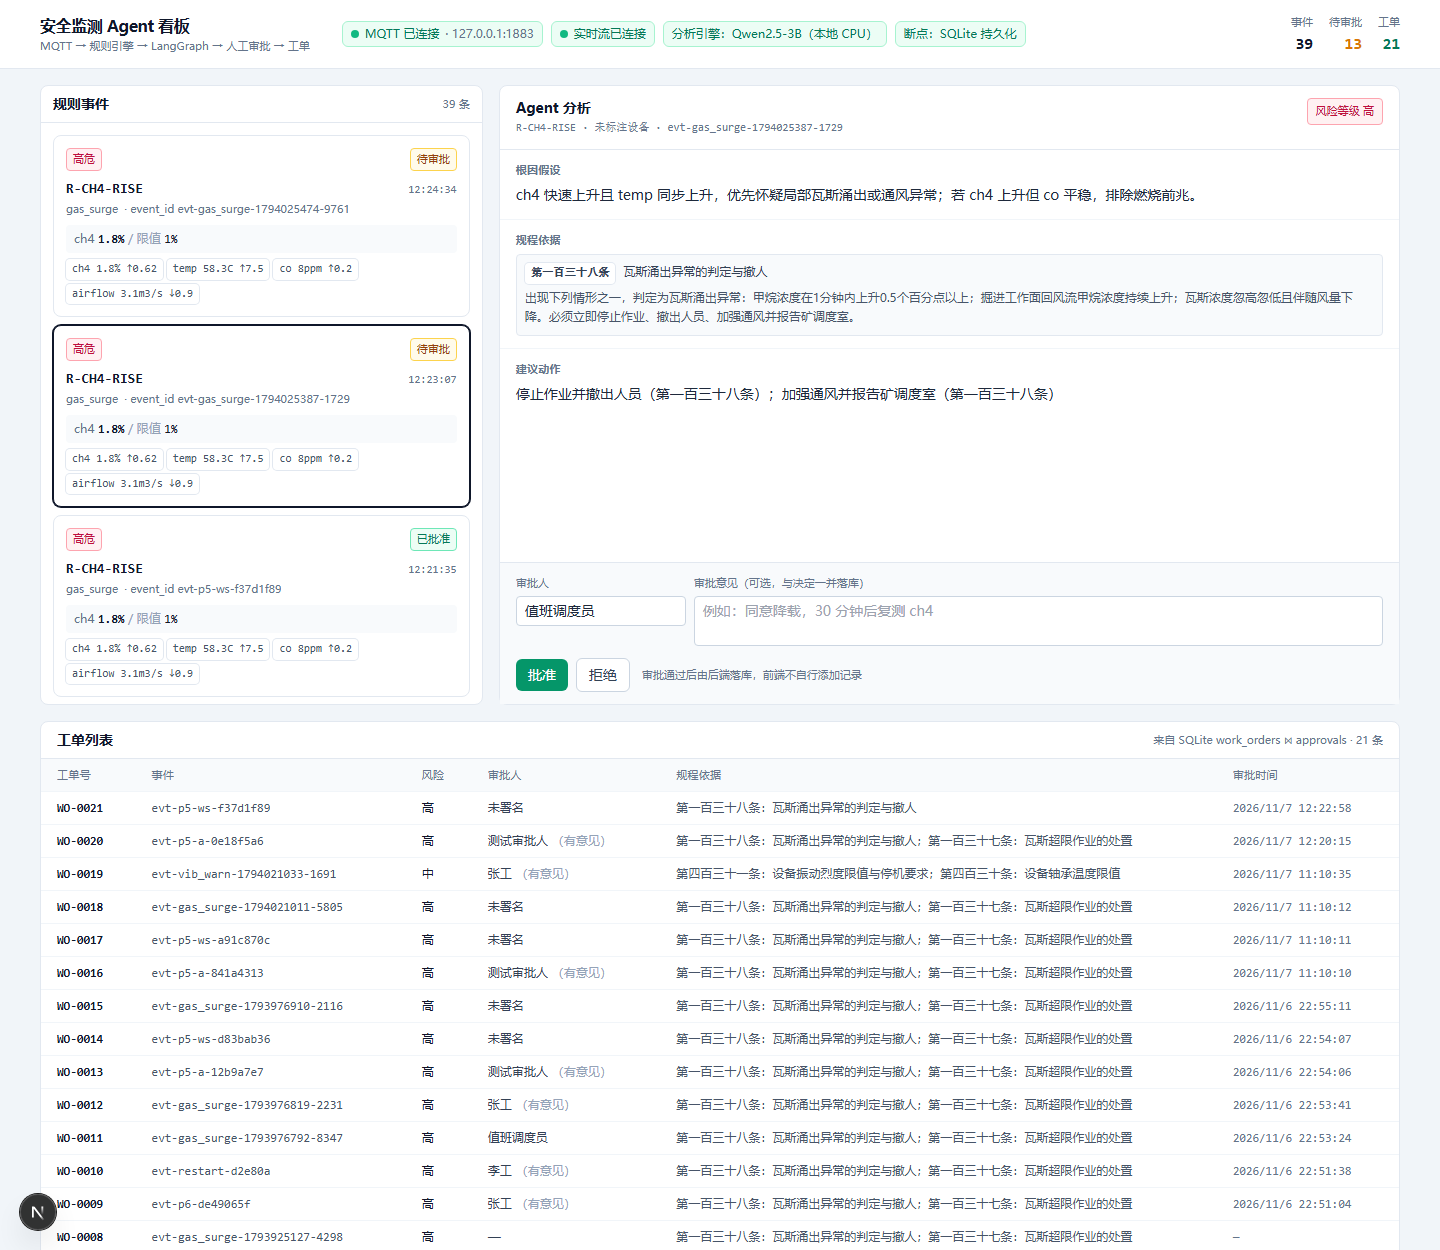
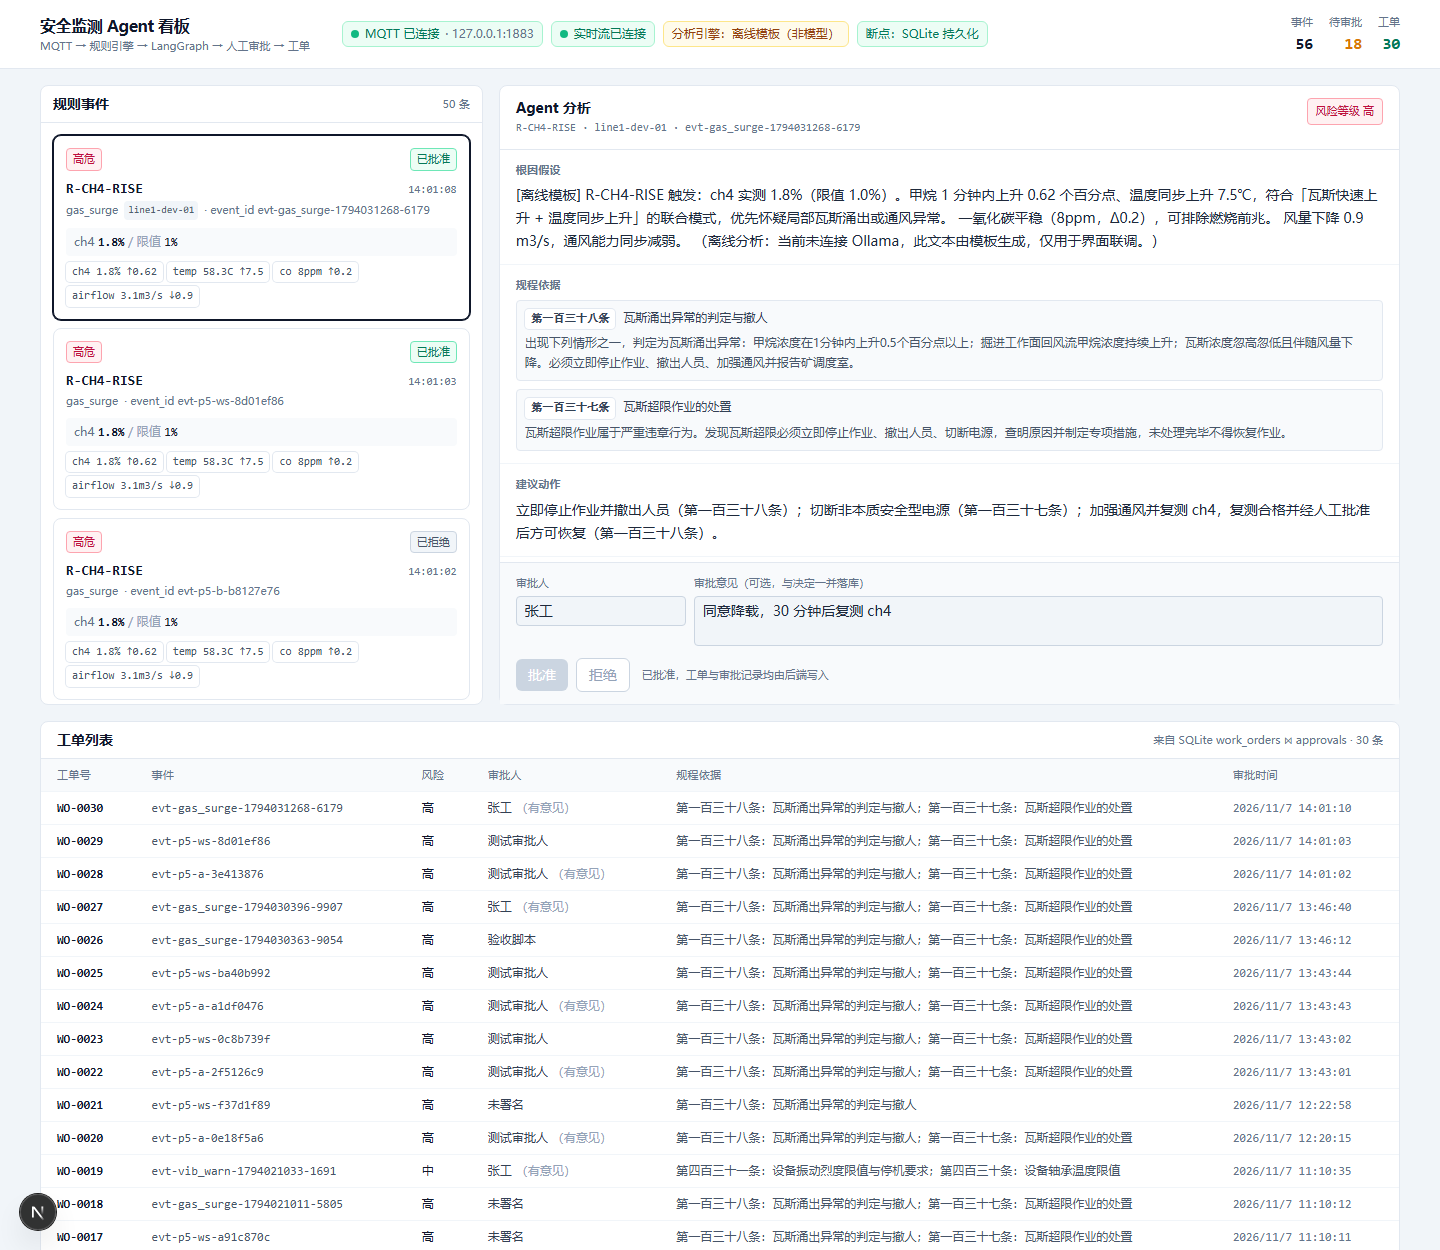
feat: 遥测趋势曲线（分析卡内 30 分钟折线）+ 审批超时默认 600s

diff --git a/web/components/TelemetryChart.tsx b/web/components/TelemetryChart.tsx
@@ -1,0 +1,100 @@
+"use client";
+
+import { useEffect, useState } from "react";
+
+import { fetchTelemetry } from "@/lib/api";
+import type { TelemetryPoint } from "@/lib/types";
+
+const W = 100;
+const H = 34;
+
+export function TelemetryChart({
+  deviceId,
+  sensor,
+  unit,
+}: {
+  deviceId?: string;
+  sensor?: string;
+  unit?: string;
+}) {
+  const [points, setPoints] = useState<TelemetryPoint[]>([]);
+  const [error, setError] = useState<string | null>(null);
+  const [loading, setLoading] = useState(false);
+
+  useEffect(() => {
+    if (!deviceId || !sensor) return;
+    let alive = true;
+    const load = async () => {
+      try {
+        const data = await fetchTelemetry(deviceId, sensor, 30);
+        if (alive) {
+          setPoints(data);
+          setError(null);
+        }
+      } catch (err) {
+        if (alive) setError(err instanceof Error ? err.message : String(err));
+      } finally {
+        if (alive) setLoading(false);
+      }
+    };
+    setLoading(true);
+    void load();
+    const timer = setInterval(load, 15000);
+    return () => {
+      alive = false;
+      clearInterval(timer);
+    };
+  }, [deviceId, sensor]);
+
+  if (!deviceId || !sensor) {
+    return <p className="text-xs text-slate-400">该事件未标注设备/传感器，没有可画的遥测。</p>;
+  }
+  if (error) {
+    return <p className="text-xs text-rose-600">遥测加载失败：{error}</p>;
+  }
+
+  const values = points
+    .map((p) => p.value)
+    .filter((v): v is number => typeof v === "number");
+  if (values.length < 2) {
+    return (
+      <p className="text-xs text-slate-400">
+        {loading ? "加载中…" : "最近 30 分钟没有遥测（规则引擎需运行并落库）"}
+      </p>
+    );
+  }
+
+  const min = Math.min(...values);
+  const max = Math.max(...values);
+  const span = max - min || 1;
+  const step = W / (values.length - 1);
+  const line = values
+    .map((v, i) => `${i === 0 ? "M" : "L"}${(i * step).toFixed(2)},${(H - ((v - min) / span) * H).toFixed(2)}`)
+    .join(" ");
+  const last = values[values.length - 1];
+
+  return (
+    <div>
+      <div className="flex items-baseline justify-between text-[11px] text-slate-500">
+        <span>
+          最近 30 分钟 · {sensor} · {deviceId}
+        </span>
+        <span>{values.length} 点</span>
+      </div>
+      <svg
+        viewBox={`0 0 ${W} ${H}`}
+        preserveAspectRatio="none"
+        className="mt-1 h-14 w-full rounded bg-slate-50 ring-1 ring-slate-200"
+        role="img"
+        aria-label="遥测趋势"
+      >
+        <path d={line} fill="none" stroke="#0f172a" strokeWidth="1" vectorEffect="non-scaling-stroke" />
+      </svg>
+      <div className="mt-1 flex justify-between font-mono text-[11px] text-slate-600">
+        <span>最低 {min.toFixed(2)}{unit ?? ""}</span>
+        <span>当前 {last.toFixed(2)}{unit ?? ""}</span>
+        <span>最高 {max.toFixed(2)}{unit ?? ""}</span>
+      </div>
+    </div>
+  );
+}

diff --git a/web/lib/api.ts b/web/lib/api.ts
@@ -1,6 +1,8 @@
 export const API_BASE =
   process.env.NEXT_PUBLIC_API_BASE?.replace(/\/$/, "") ?? "http://127.0.0.1:8000";
 
+import type { TelemetryPoint } from "./types";
+
 /** 设置 API_TOKEN 时，前端用这个头访问写接口 */
 const TOKEN = process.env.NEXT_PUBLIC_API_TOKEN ?? "";
 
@@ -53,4 +55,22 @@ export async function retryAnalysis(eventId: string): Promise<{ ok: boolean; sta
   });
   if (!res.ok) throw new Error(await readError(res));
   return (await res.json()) as { ok: boolean; status: string };
+}
+
+/** 最近 N 分钟的原始遥测（升序返回，便于直接画折线） */
+export async function fetchTelemetry(
+  deviceId: string,
+  sensor: string,
+  minutes = 30,
+): Promise<TelemetryPoint[]> {
+  const params = new URLSearchParams({
+    device_id: deviceId,
+    sensor,
+    minutes: String(minutes),
+    limit: "600",
+  });
+  const res = await fetch(`${API_BASE}/api/telemetry?${params.toString()}`, { cache: "no-store" });
+  if (!res.ok) throw new Error(await readError(res));
+  const body = (await res.json()) as { points: TelemetryPoint[] };
+  return [...body.points].reverse();
 }

diff --git a/web/components/AnalysisPanel.tsx b/web/components/AnalysisPanel.tsx
@@ -2,6 +2,7 @@
 
 import { useState } from "react";
 
+import { TelemetryChart } from "@/components/TelemetryChart";
 import type { EventRecord, RiskLevel } from "@/lib/types";
 
 const RISK: Record<RiskLevel, { label: string; cls: string }> = {
@@ -101,6 +102,14 @@ export function AnalysisPanel({
 
             <Section title="建议动作">
               <p className="text-sm leading-relaxed text-slate-800">{analysis.recommended_action}</p>
+            </Section>
+
+            <Section title="遥测趋势">
+              <TelemetryChart
+                deviceId={record.event.device_id}
+                sensor={record.event.sensor}
+                unit={record.event.observed?.unit}
+              />
             </Section>
           </>
         )}

diff --git a/web/lib/types.ts b/web/lib/types.ts
@@ -55,6 +55,14 @@ export interface WorkOrder {
   decided_at?: string | null;
 }
 
+export interface TelemetryPoint {
+  ts: string;
+  device_id: string;
+  sensor: string;
+  value: number | null;
+  unit?: string | null;
+}
+
 export interface StatusPayload {
   mqtt: {
     connected: boolean;

diff --git a/backend_server.py b/backend_server.py
@@ -52,7 +52,7 @@ MQTT_PORT = int(os.environ.get("MQTT_PORT", "1883"))
 MQTT_TOPIC = os.environ.get("MQTT_EVENT_TOPIC", "line1/events")
 HEARTBEAT_TOPIC = os.environ.get("MQTT_HEARTBEAT_TOPIC", "line1/heartbeat")
 OFFLINE_TIMEOUT = float(os.environ.get("DEVICE_OFFLINE_TIMEOUT", "15"))
-APPROVAL_TIMEOUT = float(os.environ.get("APPROVAL_TIMEOUT_S", "0"))  # 0=不升级
+APPROVAL_TIMEOUT = float(os.environ.get("APPROVAL_TIMEOUT_S", "600"))  # 默认 10 分钟未审批升级告警
 HTTP_PORT = int(os.environ.get("BACKEND_PORT", "8000"))
 LOG_DIR = Path(__file__).resolve().parent / "data" / "logs"
 
@@ -290,6 +290,7 @@ def status_payload() -> dict[str, Any]:
         "checkpointer": STATE.get("checkpointer", "memory"),
         "devices": device_snapshot(),
         "offline_timeout_s": OFFLINE_TIMEOUT,
+        "approval_timeout_s": APPROVAL_TIMEOUT,
     }
 
 

diff --git a/README.md b/README.md
@@ -77,10 +77,10 @@ Set-Service -Name mosquitto -StartupType Manual
 | # | 硬伤 | 现在的实现 | 验证 |
 |---|---|---|---|
 | 1 | 事件会丢 | `rule_engine` POST 失败写 `data/spool/*.json`，后台每 10s 重投，成功即删 | `_spool_test` 实测：暂存→重投→后端 202→文件消失 |
-| 2 | 无原始时序 | 遥测落 SQLite `telemetry` 表（默认保留 24h，每小时清理）；`GET /api/telemetry` 查询 | 注入后 `points=40` |
+| 2 | 无原始时序 | 遥测落 SQLite `telemetry` 表（默认保留 24h，每小时清理）；`GET /api/telemetry` 查询；分析卡新增「遥测趋势」折线（最近 30 分钟，15s 刷新） | 注入后 `points=40`，图表 30 点 |
 | 3 | 分析串行、慢 | 分析并发信号量 + `ANALYSIS_TIMEOUT_S` 超时降级（超时自动改离线模板）；图操作单独加锁，审批不再被分析阻塞 | `/metrics` 的 `analysis_timeout_total` |
 | 4 | 不是真 Agent | 图加 `plan → tools → analyze`：按策略调用 `get_device_status` / `get_recent_events`，工具结果进提示词 | `/metrics` 的 `tool_calls_total` |
-| 5 | 审批语义弱 | 审批人必填（≥2 字，否则 422）；`APPROVAL_TIMEOUT_S` 超时升级告警；重复调用幂等/409 优先于 422 | `p5_acceptance` 25/25 |
+| 5 | 审批语义弱 | 审批人必填（≥2 字，否则 422）；`APPROVAL_TIMEOUT_S` 默认 600s，超时升级告警（不自动批）；重复调用 409 优先于 422 | `p5_acceptance` 25/25 |
 | 6 | 规则硬编码 | 阈值/单位/趋势全部移到 `config/rules.json`，新增 co 规则；`--rules` 可换配置 | `tests/test_rules.py` |
 | 7 | 失败不闭环 | `POST /events/{id}/reanalyze` 重试；前端「重试分析」按钮；高危/离线事件写 `data/alerts.jsonl`，可配 `ALERT_WEBHOOK` | `GET /api/alerts` |
 | 8 | 可观测性弱 | `GET /metrics`（Prometheus 文本）：事件/分析/超时/工具/告警/队列/在线设备/spool | 实测见下表 |
@@ -93,7 +93,7 @@ Set-Service -Name mosquitto -StartupType Manual
 API_TOKEN=             # 非空则写接口需要 Bearer token
 ANALYSIS_TIMEOUT_S=0   # >0 时分析超时降级为离线模板
 ANALYSIS_CONCURRENCY=1 # 允许并发的分析数（CPU 3B 建议保持 1）
-APPROVAL_TIMEOUT_S=0   # >0 时待审批超时写告警（不自动批准）
+APPROVAL_TIMEOUT_S=600 # 待审批超时写告警（默认 10 分钟，不自动批准）
 ALERT_WEBHOOK=         # 可选：告警 POST 到该地址
 DEVICE_OFFLINE_TIMEOUT=15
 ```
